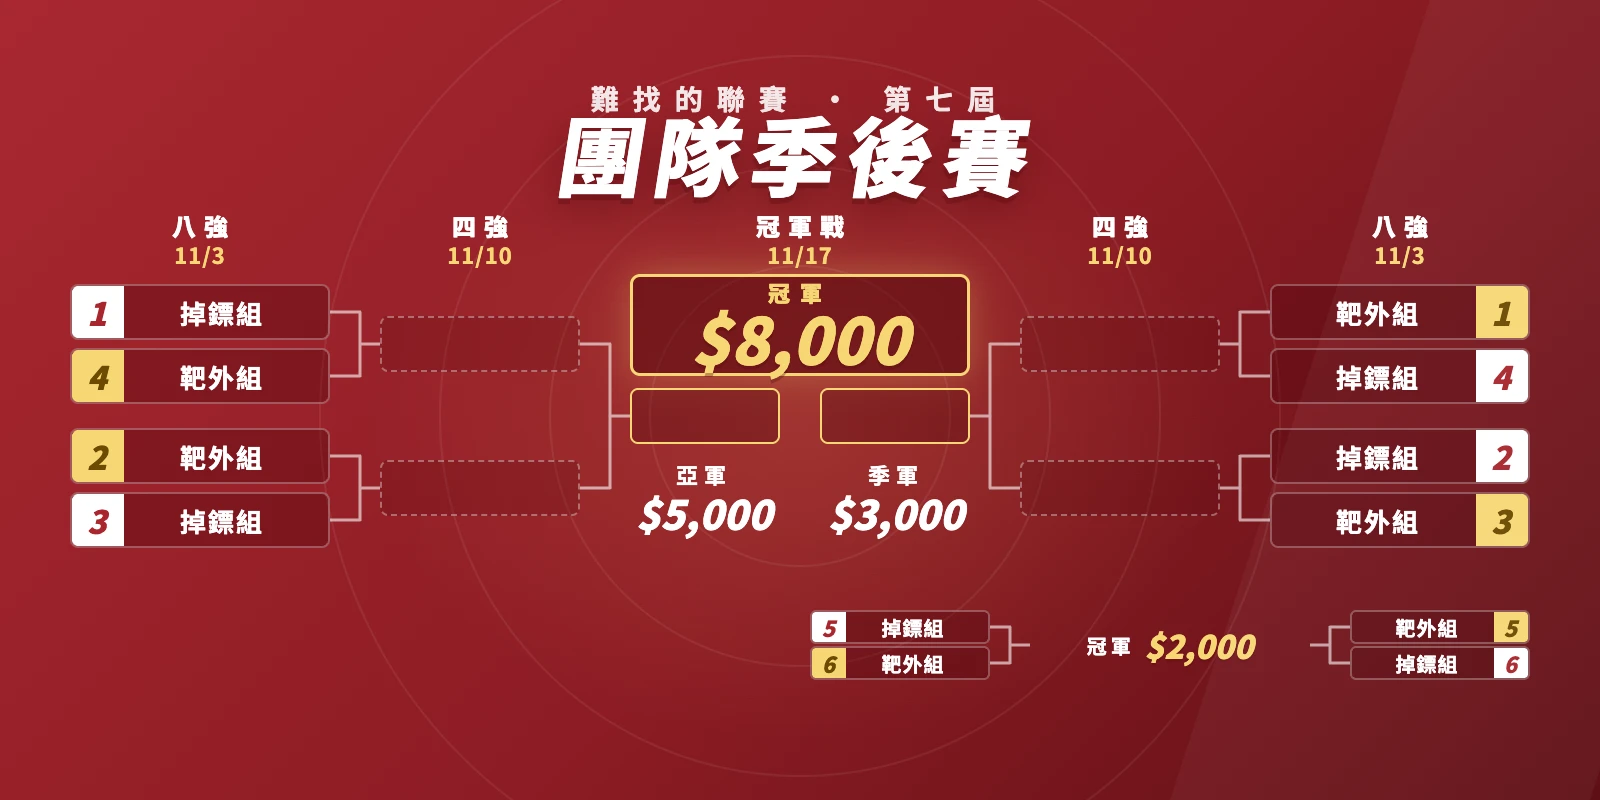
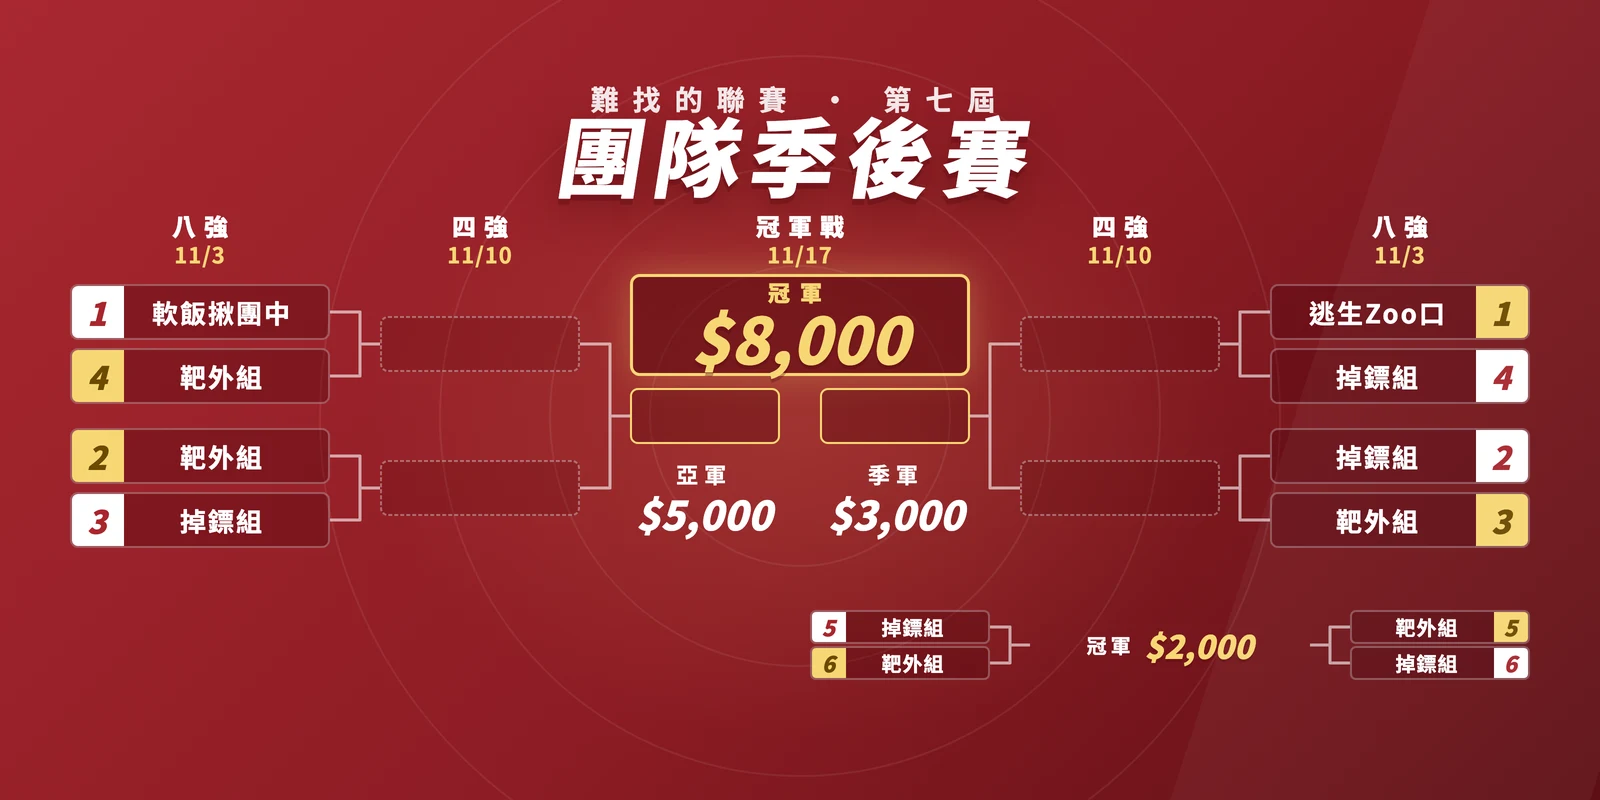
季後賽賽制圖填上兩組第一種子的隊名
第九週（10/20）打完後兩組第一名已經數學確定：
  掉鏢組 軟飯揪團中 226 分（第二名全拿也只到 218）
  靶外組 逃生Zoo口 233 分（第二名全拿也只到 195）

pages/s7_playoffs_banner.html 的兩個 1 號種子格由組別改成隊名，
其餘六格維持組別不變（名次尚未確定）。

圖是用 Chrome headless 以 2 倍解析度重新渲染 banner、縮回 1600x800
後轉 webp，尺寸與原檔一致（79046 vs 80192 bytes）。

diff --git a/pages/s7_playoffs_banner.html b/pages/s7_playoffs_banner.html
@@ -145,13 +145,13 @@
 <div class="round" style="left:1270px">八強<span>11/3</span></div>
 
 <!-- 左半區：掉鏢1 vs 靶外4、靶外2 vs 掉鏢3 -->
-<div class="slot qf a" style="left:70px; top:284px"><i>1</i><span>掉鏢組</span></div>
+<div class="slot qf a" style="left:70px; top:284px"><i>1</i><span>軟飯揪團中</span></div>
 <div class="slot qf b" style="left:70px; top:348px"><i>4</i><span>靶外組</span></div>
 <div class="slot qf b" style="left:70px; top:428px"><i>2</i><span>靶外組</span></div>
 <div class="slot qf a" style="left:70px; top:492px"><i>3</i><span>掉鏢組</span></div>
 
 <!-- 右半區：靶外1 vs 掉鏢4、掉鏢2 vs 靶外3 -->
-<div class="slot qf r b" style="left:1270px; top:284px"><i>1</i><span>靶外組</span></div>
+<div class="slot qf r b" style="left:1270px; top:284px"><i>1</i><span>逃生Zoo口</span></div>
 <div class="slot qf r a" style="left:1270px; top:348px"><i>4</i><span>掉鏢組</span></div>
 <div class="slot qf r a" style="left:1270px; top:428px"><i>2</i><span>掉鏢組</span></div>
 <div class="slot qf r b" style="left:1270px; top:492px"><i>3</i><span>靶外組</span></div>
